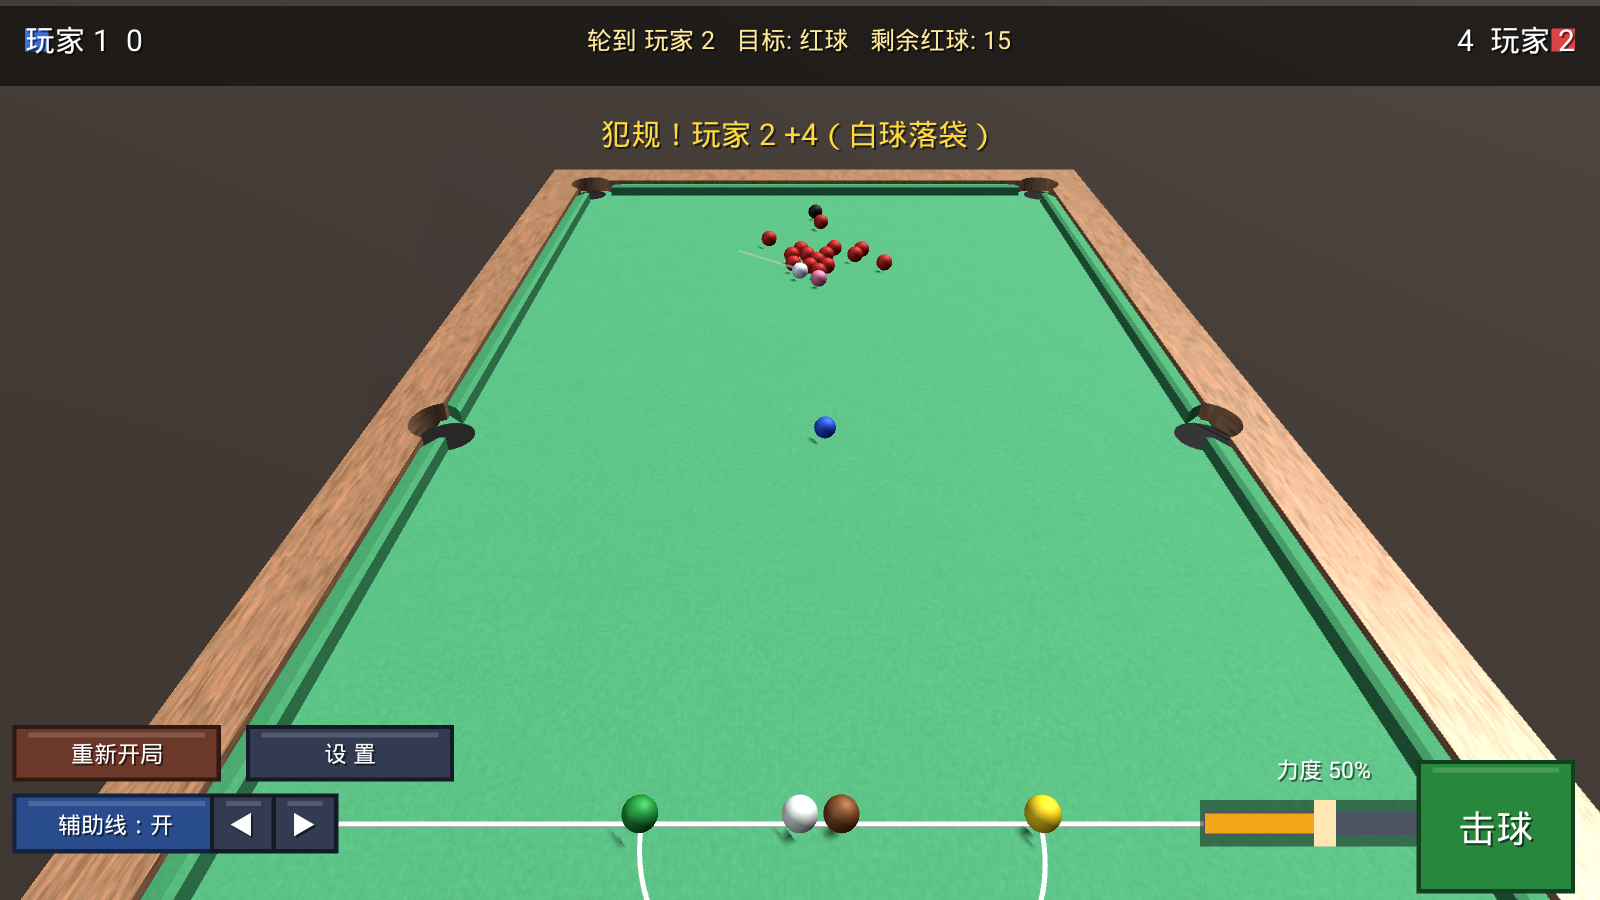
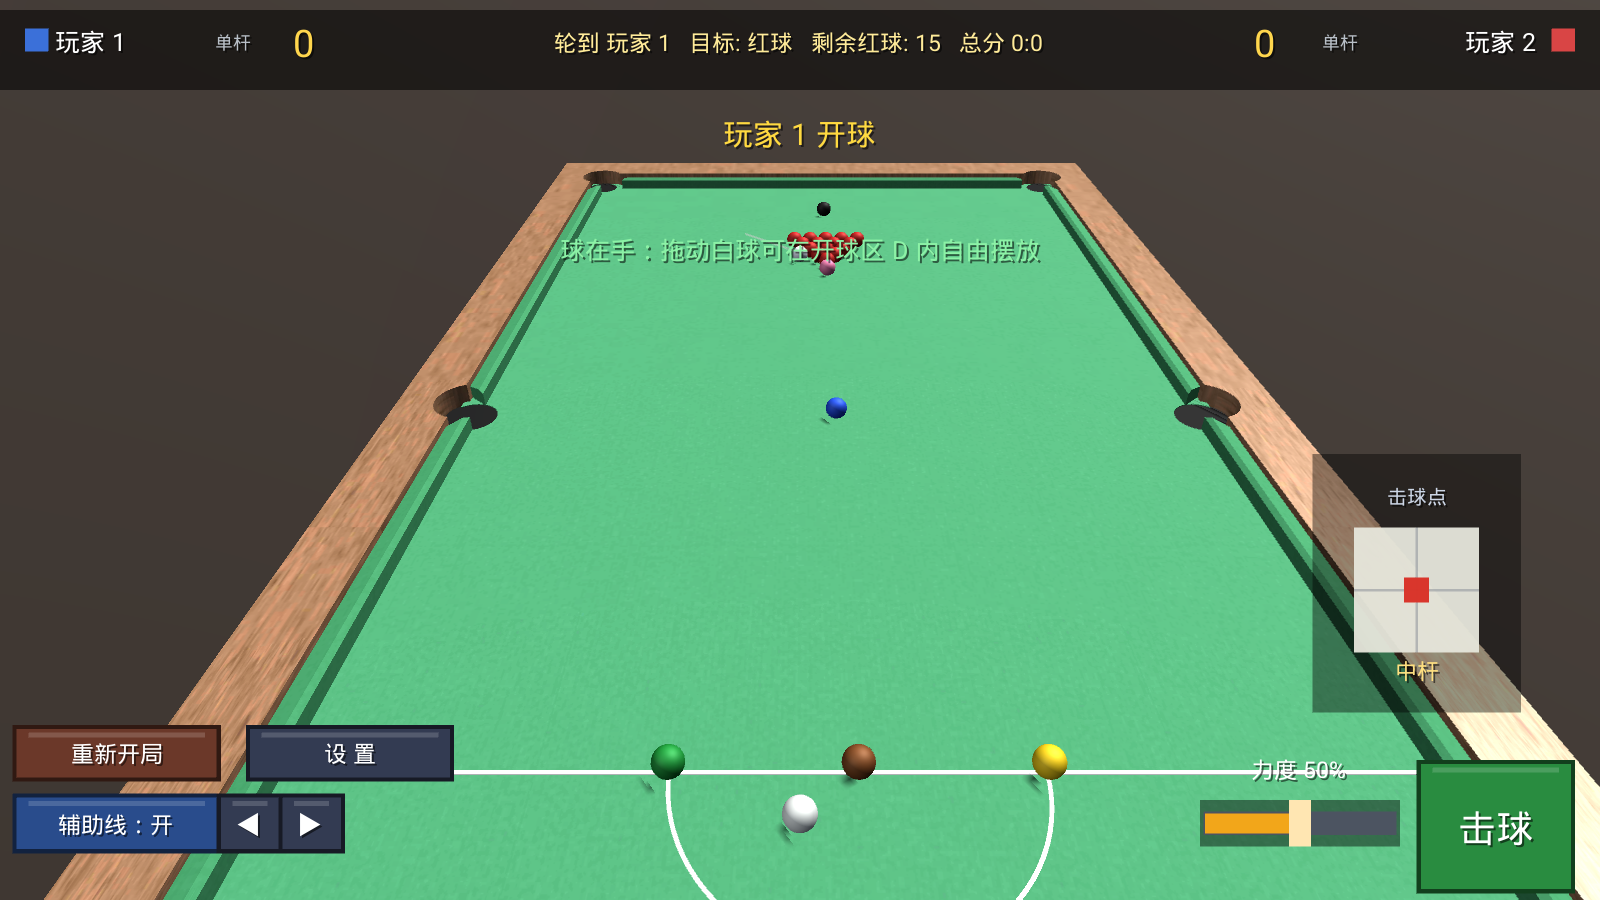
docs: refresh screenshots from v0.36 and document spin / cue-in-hand
- Replace menu.png and gameplay.png with v0.36 captures (they now show the
  contact-point spin pad).
- Add spin-pad.png (close-up of the pad selecting draw) and cue-in-hand.png
  (cue ball dragged to a non-default spot inside the D).
- Document the two new controls in the 操作 table, and correct the physics
  feature line from 4ms to 2ms (500Hz).

diff --git a/README.md b/README.md
@@ -29,10 +29,22 @@ toggleable aiming aids, cinematic intro camera and in-game settings.*
 |---|---|
 | ![hud](docs/screenshots/hud.png) | ![intro](docs/screenshots/intro.png) |
 
+| 加塞击球点（v0.36） | 球在手·D 区摆球（v0.36） |
+|---|---|
+| ![spin pad](docs/screenshots/spin-pad.png) | ![cue in hand](docs/screenshots/cue-in-hand.png) |
+
+> 上排截图取自 v0.36 实机（MuMu）。**加塞击球点**：拖动圆盘内的小圆点选高杆/低杆/左右塞，
+> 下方文字实时显示当前杆法。**球在手**：开球前与白球摔袋后，按住白球即可在开球区 D 内拖动摆放。
+
 ## ✨ 特性
 
-- **真实物理**：4ms 物理步长 + 连续碰撞检测，球-球弹性 0.92、库边反弹、台呢滚动摩擦，
+- **真实物理**：2ms 物理步长（500Hz）+ 连续碰撞检测，球-球弹性 0.92、库边反弹、台呢滚动摩擦，
   低速撞库也能正常弹开；袋口捕获 + 出界兜底
+- **加塞 / 杆法**（v0.36）：高杆（跟杆）、低杆（缩杆）、左右塞（吃库改角）。
+  白球自旋使用自建的「滑动摩擦 + 自旋耦合」模型（PhysX 无法表达台球自旋）——
+  跟杆推着球走、低杆把球拉回来都是模型自然涌现的结果；中杆与旧版手感完全一致
+- **球在手**（v0.36）：开球前与白球摔袋后，白球可在开球区 **D 内自由拖动摆放**，
+  位置自动夹取在 D 区内并与其它球分离
 - **斯诺克规则（v0.34 起为完整规则，v0.35 补齐指定彩球/Miss/自由球）**：红/彩交替计分（1~7 分）；球 on 判定遵循官方
   Rule 10.3 —— 只要台面还有红球，**换手后接台方重新从红球打起**；最后一颗红球之后仍有一颗
   "任意彩球"；随后按分值升序清彩；犯规罚分取"球 on 分值 / 涉及球分值"较高者且最低 4 分
@@ -53,6 +65,8 @@ toggleable aiming aids, cinematic intro camera and in-game settings.*
 | 瞄准 | 桌面空白处左右拖动；或左下 ◀ ▶ 微调（每次 0.2°） |
 | 力度 | 右下角滑条 |
 | 击球 | 右下角"击球"按钮 |
+| **加塞 / 杆法**（v0.36） | 右下角**「击球点」圆盘**：拖动盘内小圆点 —— 圆心=中杆、向上=高杆（跟杆）、向下=低杆（缩杆）、左右=左右塞（吃库改角） |
+| **球在手摆放**（v0.36） | 开球前 / 白球摔袋后，**按住白球拖动**即可在开球区 **D 内**自由摆放；在台面别处按住拖动仍是转球杆 |
 | 辅助线 | 左下"辅助线：开/关"切换 |
 
 ## 🛠 从源码构建
